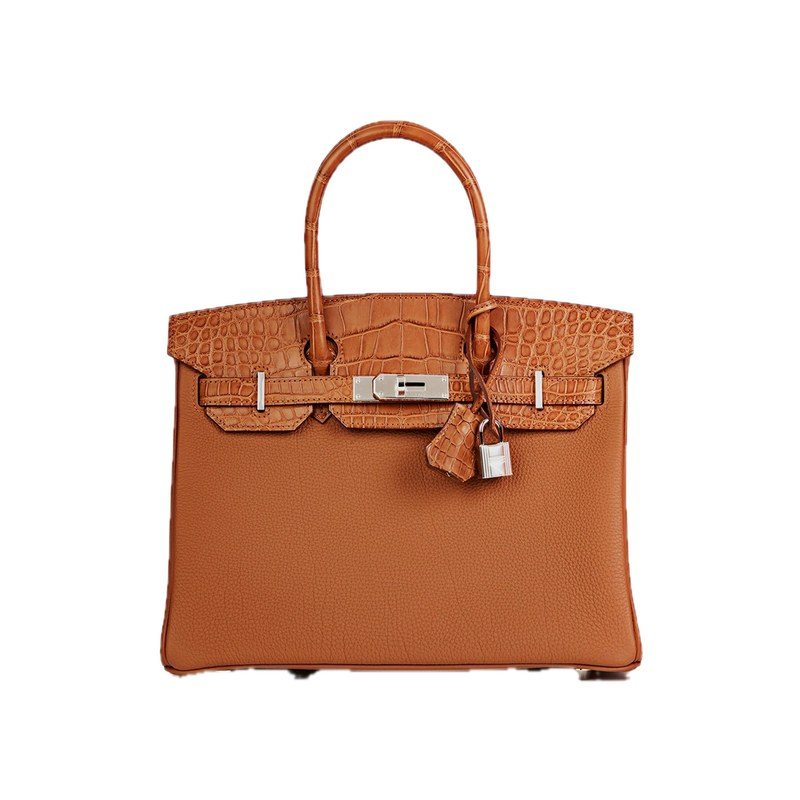
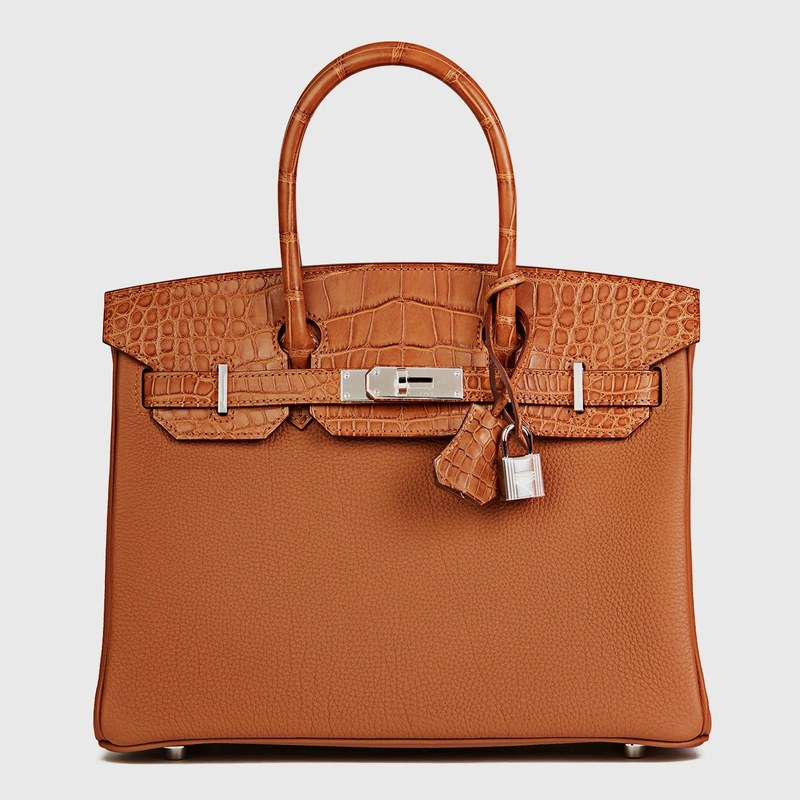
feat: show original marquee photos without background removal
Resync bags, sunglasses, and jewelry as square crops of the source images.

diff --git a/src/lib/pics.ts b/src/lib/pics.ts
@@ -30,7 +30,7 @@ export function listPicsSlides(): Slide[] {
   }
 
   return files.map((f, i) => ({
-    src: `/pics/${f}?v=7`,
+    src: `/pics/${f}?v=8`,
     alt: `Article luxe ${i + 1}`,
     title: "",
   }));
@@ -40,7 +40,7 @@ export function listPicsSlides(): Slide[] {
 export function listSunglassesSlides(): Slide[] {
   const files = listImagesIn(path.join(process.cwd(), "public", "sunglasses"));
   return files.map((f, i) => ({
-    src: `/sunglasses/${f}?v=3`,
+    src: `/sunglasses/${f}?v=4`,
     alt: `Lunettes de soleil ${i + 1}`,
     title: "",
   }));
@@ -50,7 +50,7 @@ export function listSunglassesSlides(): Slide[] {
 export function listJewelrySlides(): Slide[] {
   const files = listImagesIn(path.join(process.cwd(), "public", "jewelry"));
   return files.map((f, i) => ({
-    src: `/jewelry/${f}?v=1`,
+    src: `/jewelry/${f}?v=2`,
     alt: `Bijou ${i + 1}`,
     title: "",
   }));

diff --git a/scripts/sync-jewelry.js b/scripts/sync-jewelry.js
@@ -202,14 +202,13 @@ async function cutout(abs) {
 }
 
 async function toCarouselJpeg(abs) {
-  const { png, method } = await cutout(abs);
-  // Match bag tiles — square contain so frames stay consistent across rows
-  const buf = await sharp(png)
-    .resize(800, 800, { fit: "contain", background: WHITE })
-    .flatten({ background: WHITE })
+  // Keep original photo (no subject cutout) — square crop for marquee tiles
+  const buf = await sharp(abs)
+    .rotate()
+    .resize(800, 800, { fit: "cover", position: "centre" })
     .jpeg({ quality: 88 })
     .toBuffer();
-  return { buf, method };
+  return { buf, method: "original" };
 }
 
 function hasCommittedJewelry() {

diff --git a/scripts/sync-sunglasses.js b/scripts/sync-sunglasses.js
@@ -202,14 +202,13 @@ async function cutout(abs) {
 }
 
 async function toCarouselJpeg(abs) {
-  const { png, method } = await cutout(abs);
-  // Match bag tiles — square contain so frames stay consistent across rows
-  const buf = await sharp(png)
-    .resize(800, 800, { fit: "contain", background: WHITE })
-    .flatten({ background: WHITE })
+  // Keep original photo (no subject cutout) — square crop for marquee tiles
+  const buf = await sharp(abs)
+    .rotate()
+    .resize(800, 800, { fit: "cover", position: "centre" })
     .jpeg({ quality: 88 })
     .toBuffer();
-  return { buf, method };
+  return { buf, method: "original" };
 }
 
 function hasCommittedGlasses() {

diff --git a/scripts/sync-pics.js b/scripts/sync-pics.js
@@ -204,13 +204,13 @@ async function cutout(abs) {
 }
 
 async function toCarouselJpeg(abs) {
-  const { png, method } = await cutout(abs);
-  const buf = await sharp(png)
-    .resize(800, 800, { fit: "contain", background: WHITE })
-    .flatten({ background: WHITE })
+  // Keep original photo (no subject cutout) — square crop for marquee tiles
+  const buf = await sharp(abs)
+    .rotate()
+    .resize(800, 800, { fit: "cover", position: "centre" })
     .jpeg({ quality: 88 })
     .toBuffer();
-  return { buf, method };
+  return { buf, method: "original" };
 }
 
 function hasCommittedPics() {
